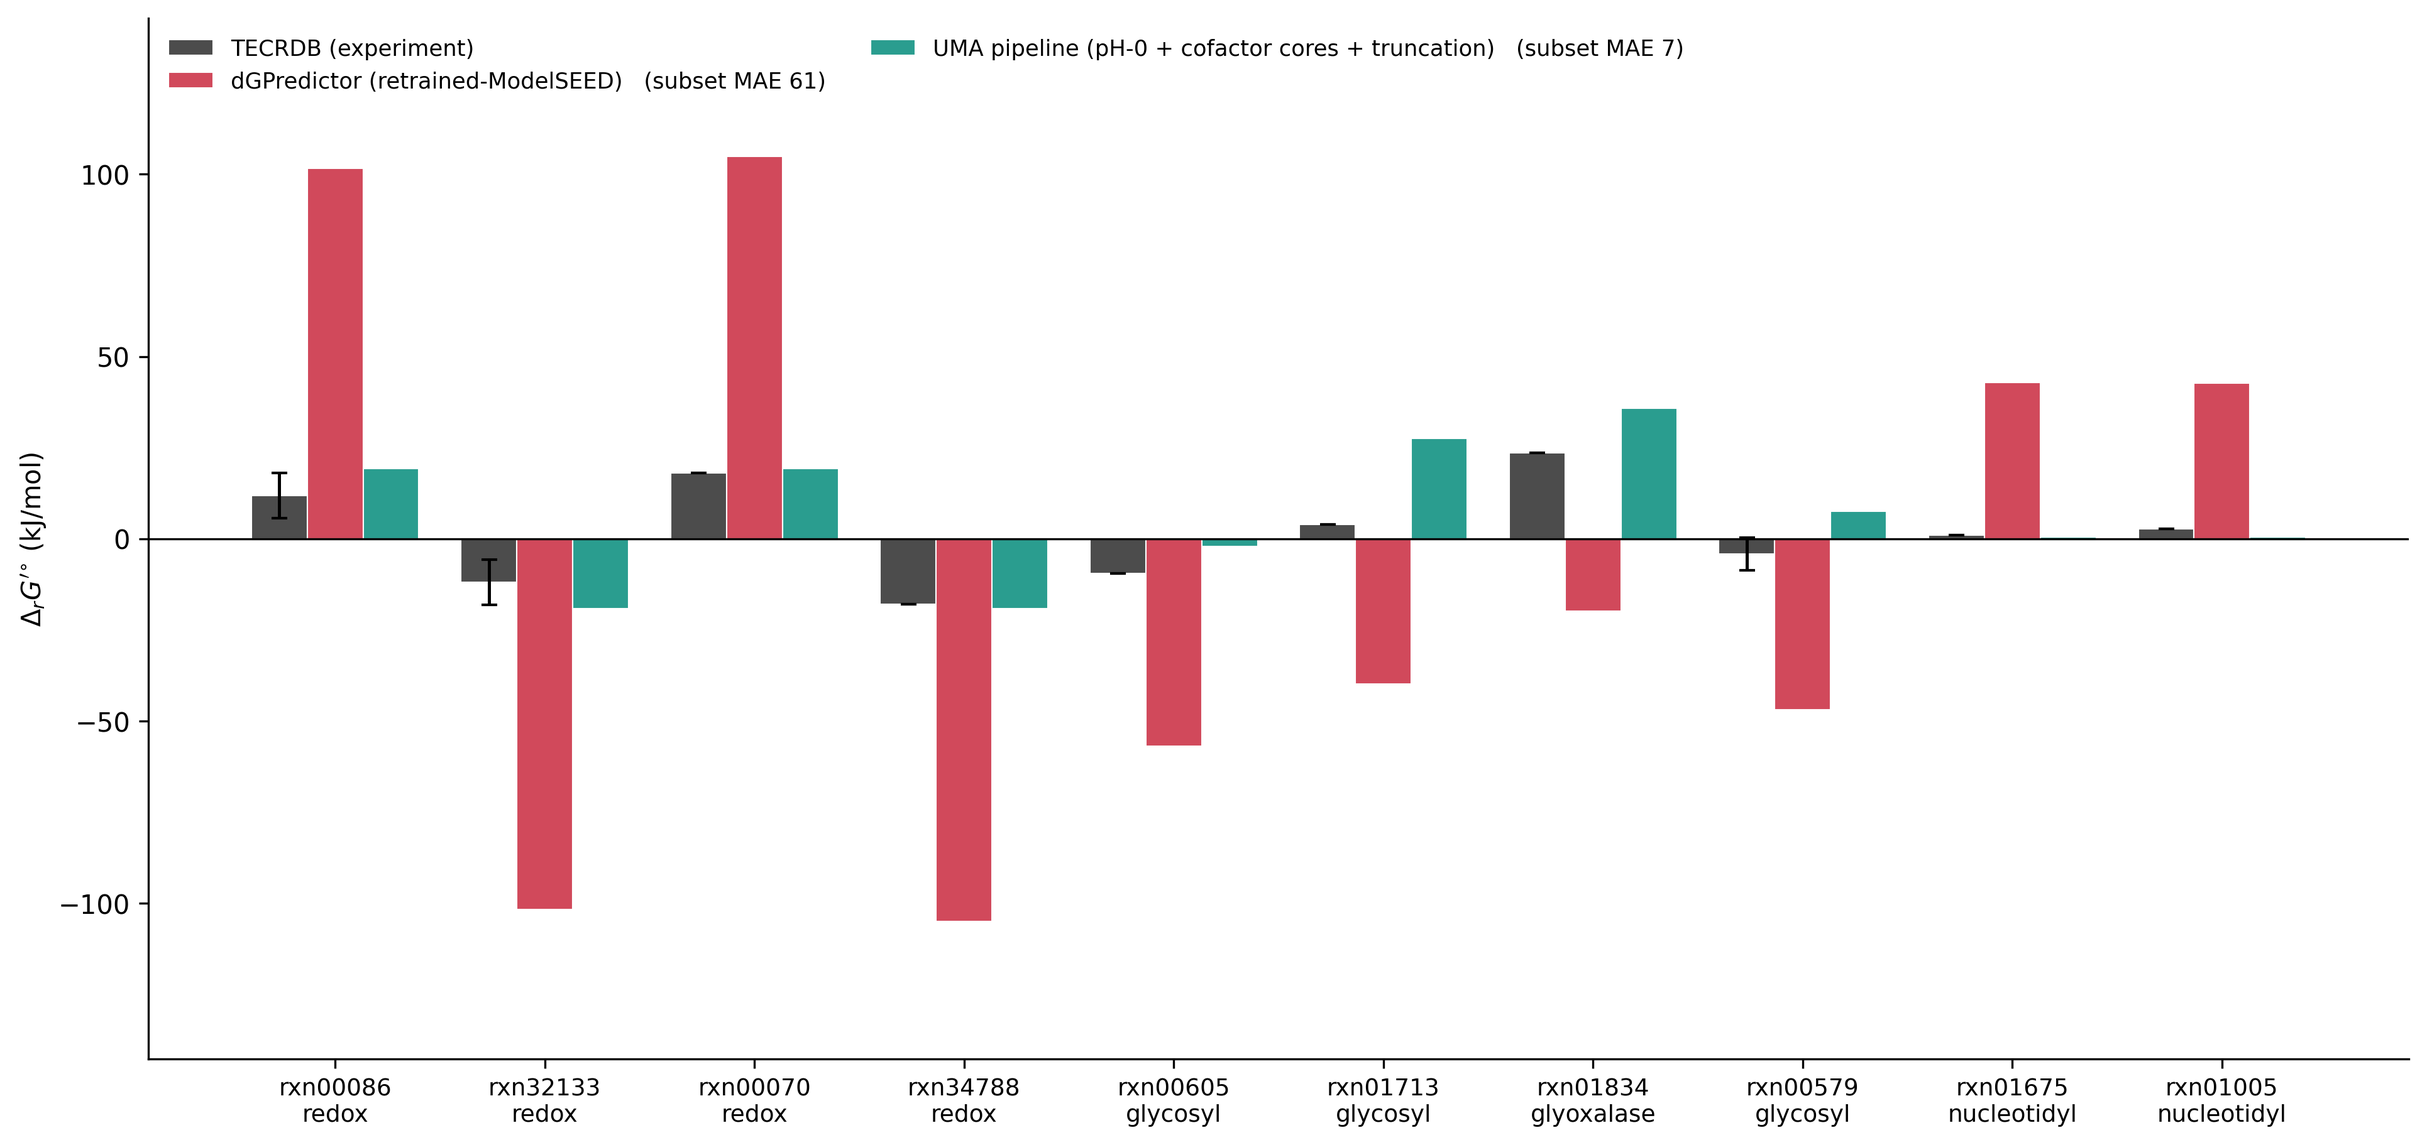
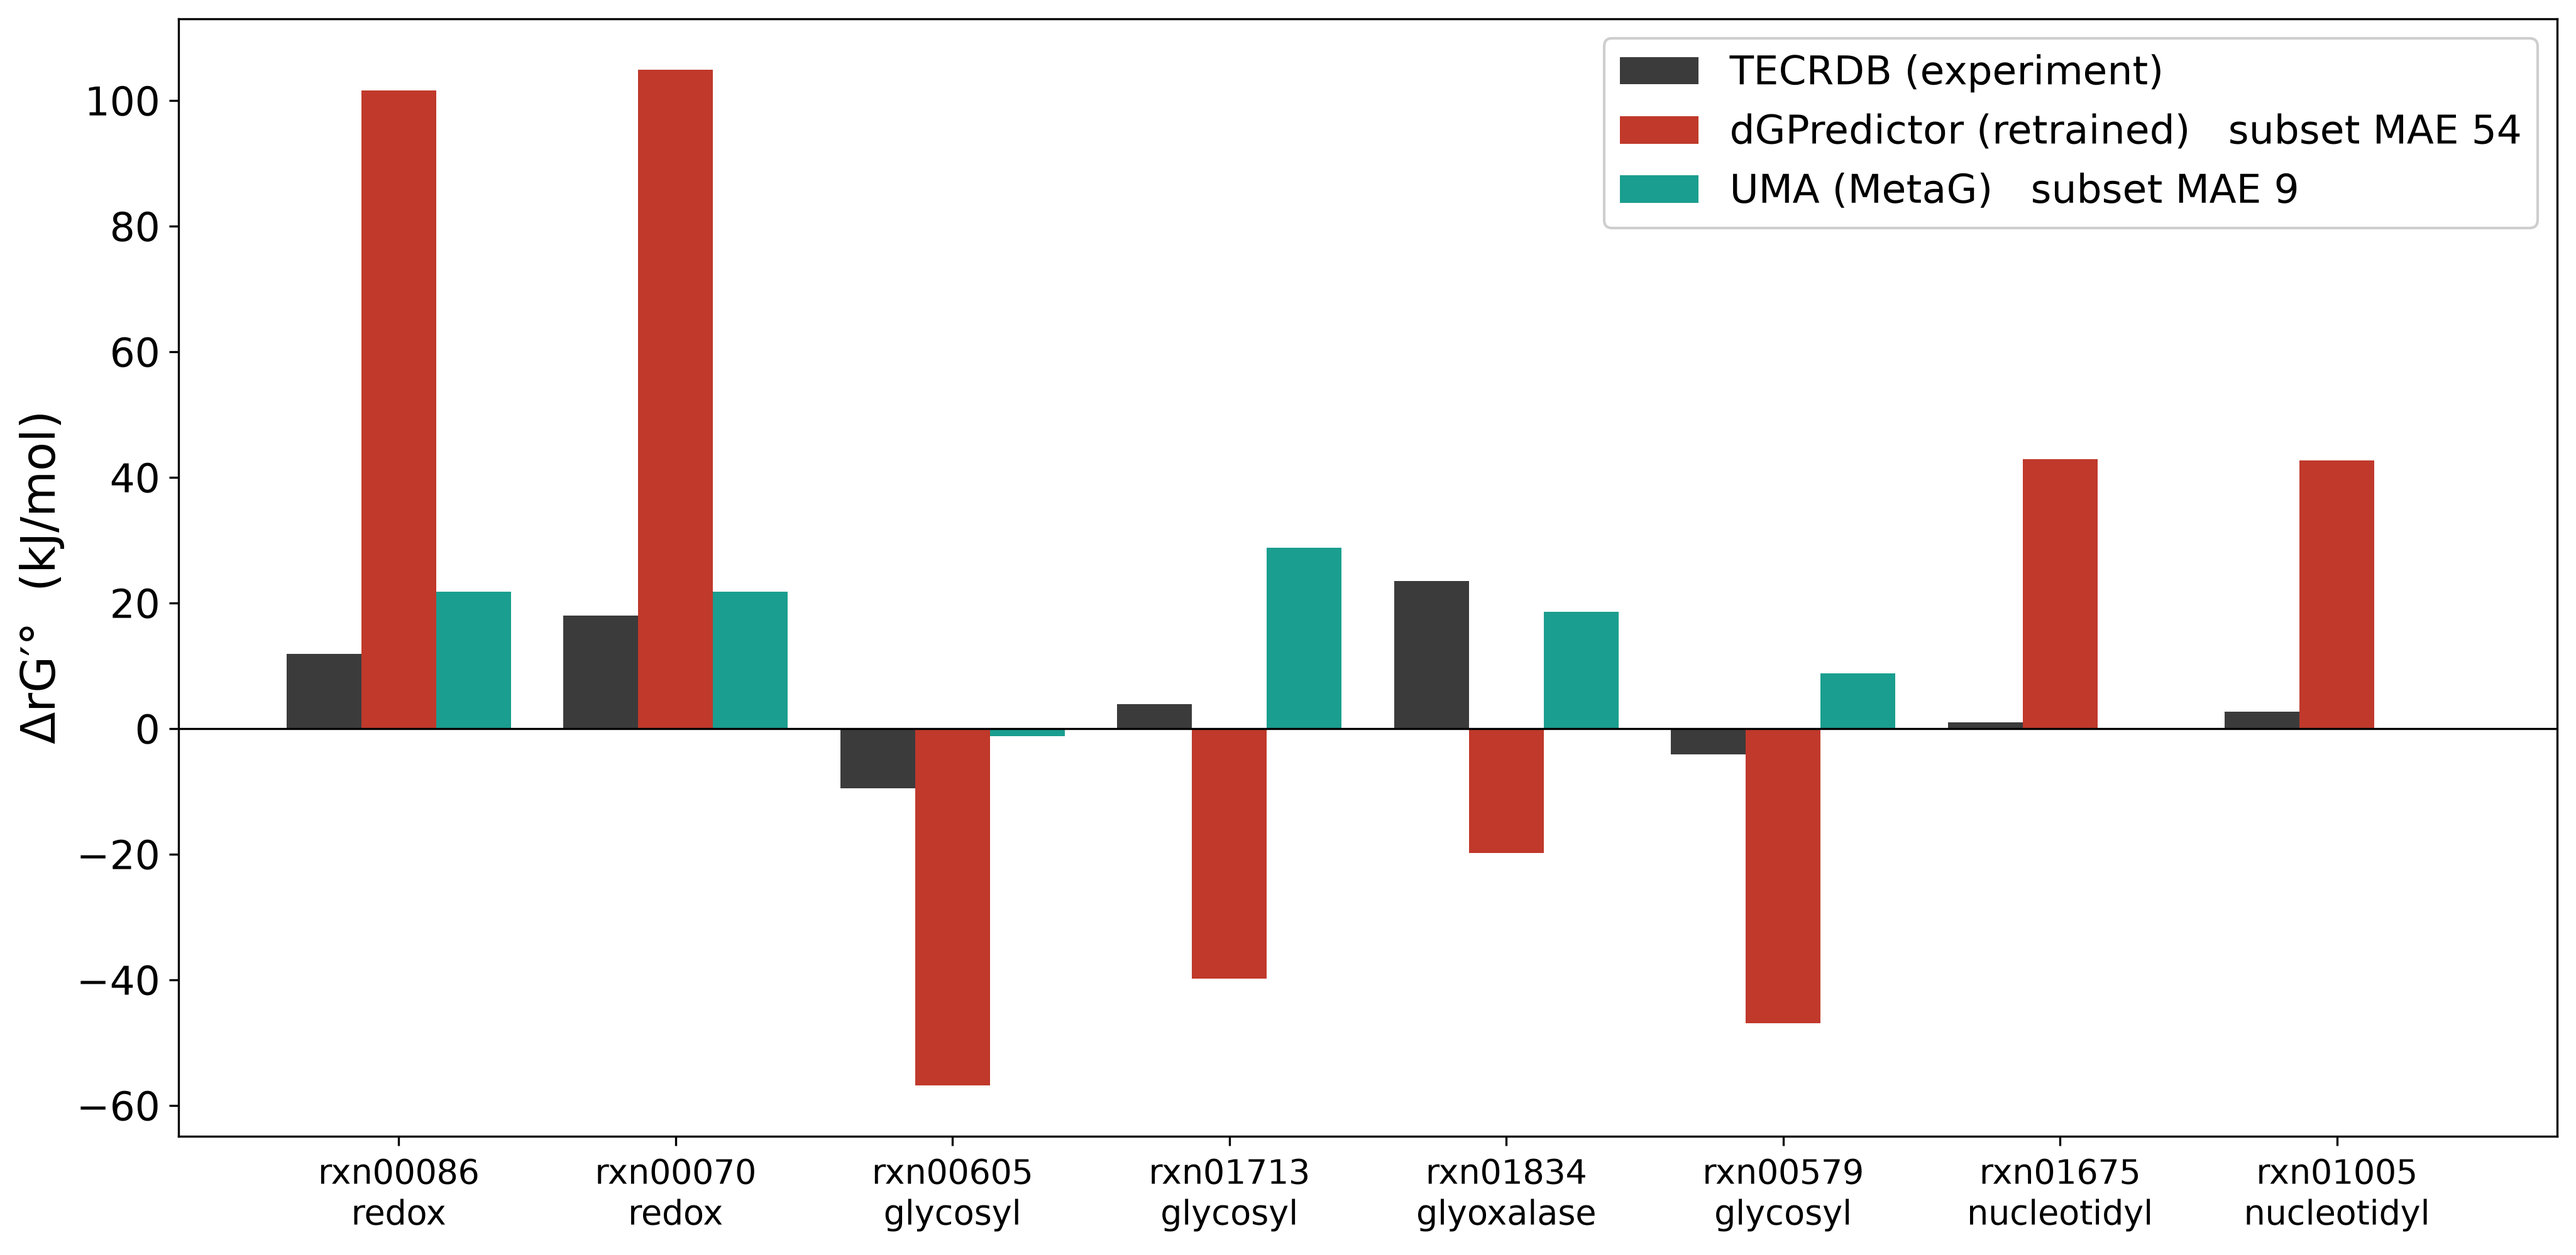
MetaG: regenerate hard-reaction showcase from current data (ground-truthed)
The 8 hardest TECRDB reactions (redox/glycosyl/glyoxalase/nucleotidyl) vs EXPERIMENT, current
pipeline: UMA MAE 8.6 vs dGPredictor(retrained) MAE 54.5. These are the reactions additivity
fundamentally cannot represent -- dGP is off by ~50-90 kJ (in-sample!) while UMA (held-out) tracks
experiment. The flip side of the aggregate TECRDB result: additivity wins on the easy bulk, UMA wins
where additivity breaks. (Dropped the 2 old ModelSEED-only members with no experimental value.)
MetaG-side rebuild from uma_tecrdb_current + dgpredictor_retrained_full + TECRDB experiment.

diff --git a/MetaG/analysis/tecrdb_hard_showcase.py b/MetaG/analysis/tecrdb_hard_showcase.py
@@ -1,0 +1,44 @@
+"""The hardest TECRDB reactions (redox / glycosyl / glyoxalase / nucleotidyl) where group-contribution
+fundamentally fails: UMA vs dGPredictor(retrained) vs EXPERIMENT. Ground-truthed (TECRDB Keq), current
+pipeline. This is the flip side of the aggregate TECRDB comparison (where additivity wins on easy
+reactions): on the reactions additivity CAN'T represent, UMA is far more accurate.
+"""
+import json, os
+import numpy as np
+import matplotlib; matplotlib.use("Agg")
+import matplotlib.pyplot as plt
+plt.rcParams.update({"font.size": 18, "axes.titlesize": 18, "axes.labelsize": 18,
+                     "xtick.labelsize": 13, "ytick.labelsize": 15, "legend.fontsize": 15,
+                     "figure.dpi": 300, "savefig.dpi": 300})
+HERE = os.path.dirname(os.path.abspath(__file__))
+
+SUB = [("rxn00086", "redox"), ("rxn00070", "redox"), ("rxn00605", "glycosyl"),
+       ("rxn01713", "glycosyl"), ("rxn01834", "glyoxalase"), ("rxn00579", "glycosyl"),
+       ("rxn01675", "nucleotidyl"), ("rxn01005", "nucleotidyl")]
+cur = json.load(open(os.path.join(HERE, "uma_tecrdb_current.json")))
+tec = json.load(open(os.path.join(HERE, "..", "..", "experiments", "qm_mlip_solvation", "scripts", "reactions_tecrdb_all.json")))
+dgp = json.load(open(os.path.join(HERE, "..", "..", "results", "eq", "dgpredictor_retrained_full.json")))
+
+rids = [r for r, _ in SUB]
+exp = np.array([tec[r]["exp"][0] for r in rids])
+uma = np.array([exp[i] + cur[r] for i, r in enumerate(rids)])       # UMA dG = exp + err
+dg = np.array([dgp[r]["dG_kJ"] for r in rids])
+uma_mae = np.abs(uma - exp).mean(); dg_mae = np.abs(dg - exp).mean()
+
+x = np.arange(len(rids)); w = 0.27
+fig, ax = plt.subplots(figsize=(14, 7))
+ax.bar(x - w, exp, w, color="#3b3b3b", label="TECRDB (experiment)")
+ax.bar(x,     dg,  w, color="#c0392b", label=f"dGPredictor (retrained)   subset MAE {dg_mae:.0f}")
+ax.bar(x + w, uma, w, color="#1a9e8f", label=f"UMA (MetaG)   subset MAE {uma_mae:.0f}")
+ax.axhline(0, color="black", lw=0.8)
+ax.set_xticks(x)
+ax.set_xticklabels([f"{r}\n{m}" for r, m in SUB])
+ax.set_ylabel("ΔrG′°  (kJ/mol)")
+ax.legend(loc="upper right", framealpha=0.96)
+fig.tight_layout()
+out = os.path.join(HERE, "..", "figures", "deck_top10_comparison.png")
+fig.savefig(out, bbox_inches="tight")
+print(f"n={len(rids)}  UMA MAE {uma_mae:.1f}  dGP MAE {dg_mae:.1f}")
+for i, r in enumerate(rids):
+    print(f"  {r} {SUB[i][1]:12s} exp {exp[i]:+6.1f}  UMA {uma[i]:+6.1f}  dGP {dg[i]:+7.1f}")
+print(f"wrote {os.path.abspath(out)}")
